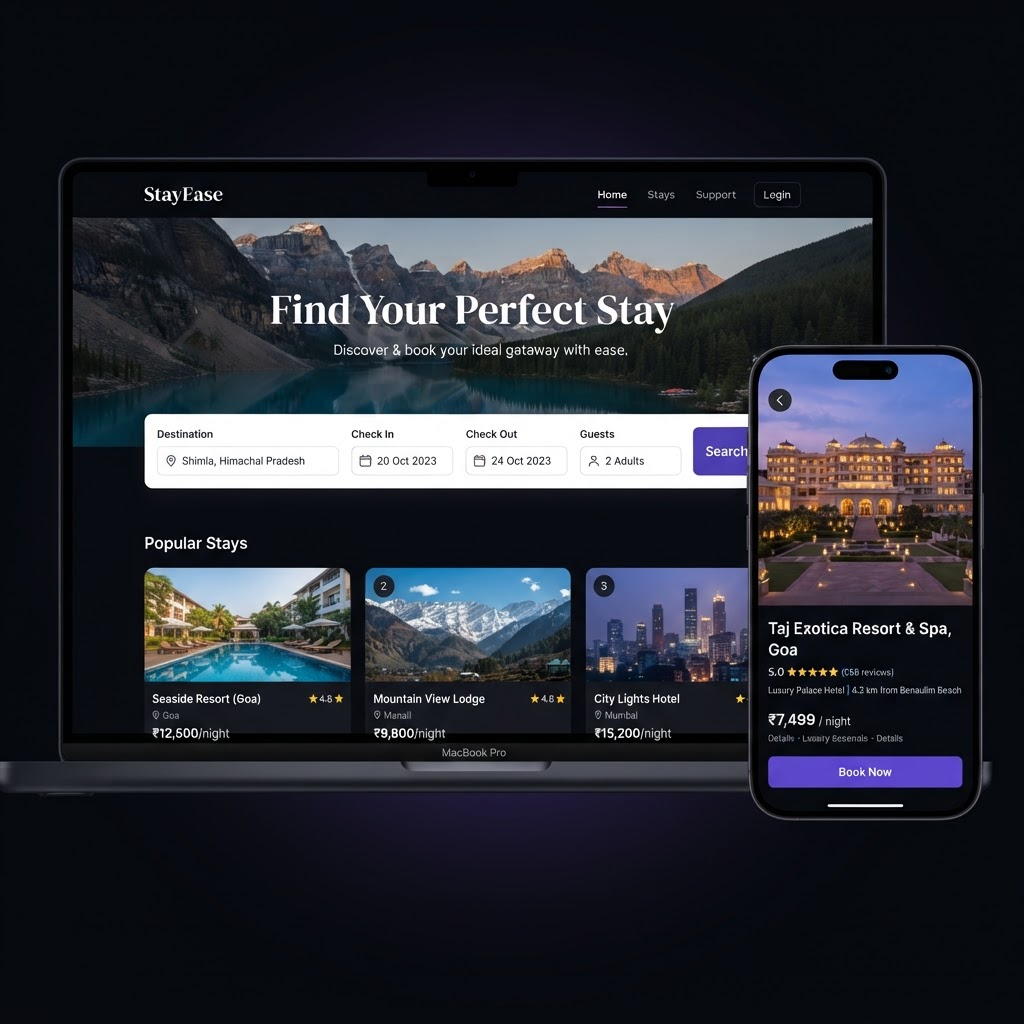
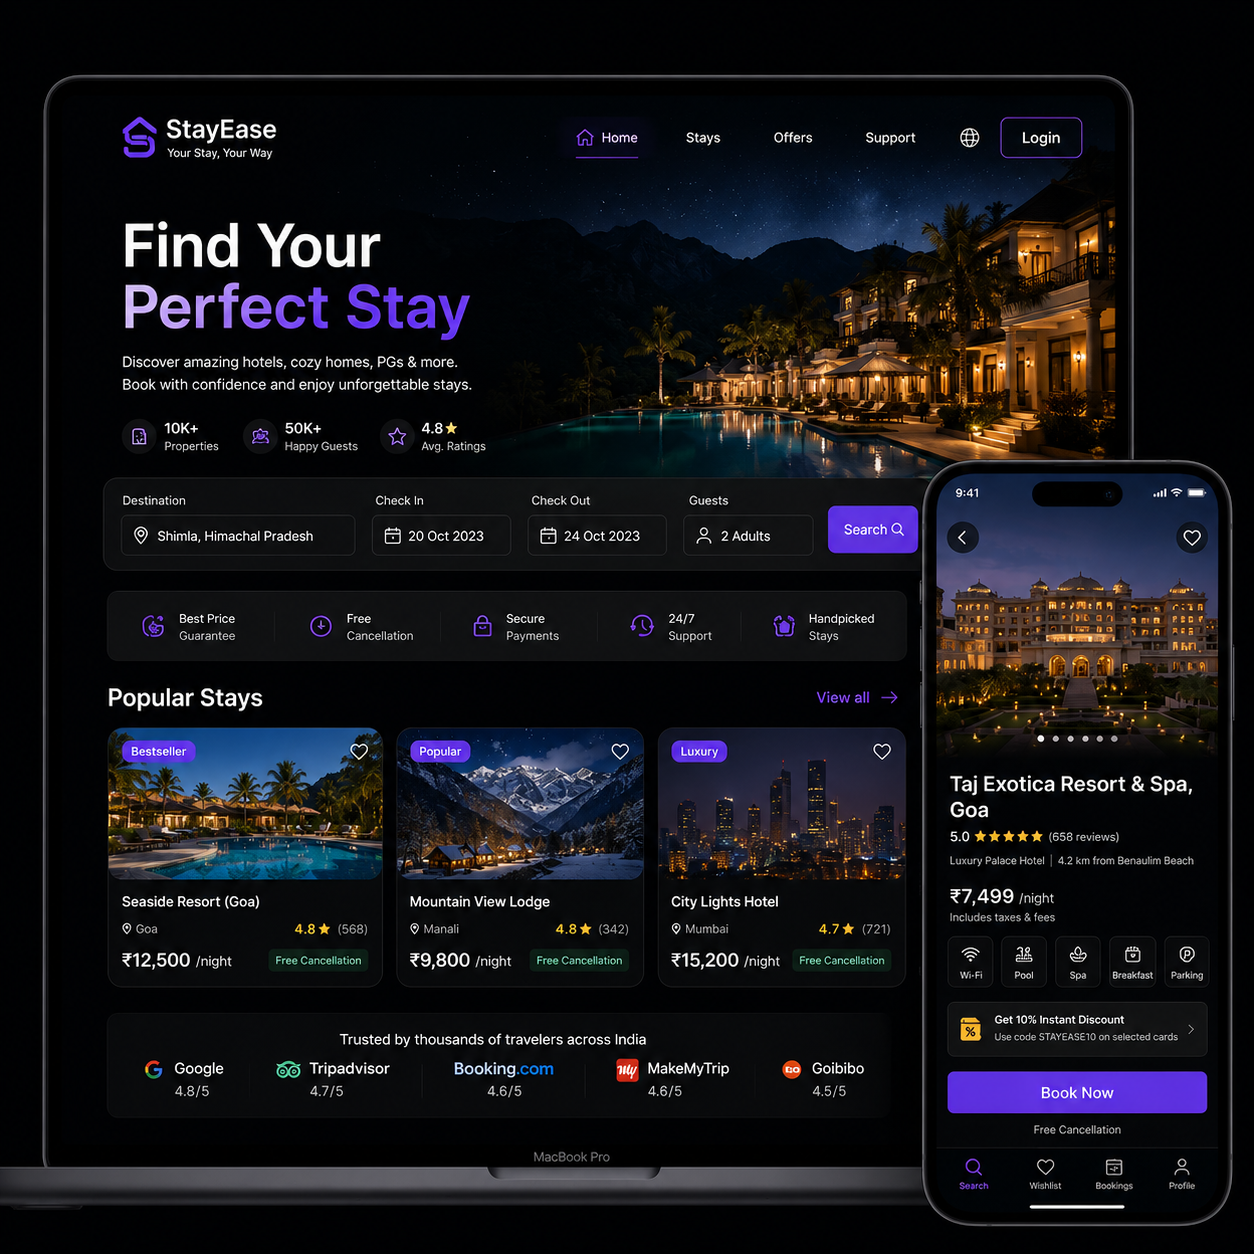
feat: enhance featured projects with richer previews and project context

diff --git a/components/sections/projects-section.tsx b/components/sections/projects-section.tsx
@@ -12,7 +12,7 @@ export function ProjectsSection() {
   return (
     <section
       id="projects"
-      className="scroll-section mx-auto flex max-w-[1480px] flex-col gap-5 px-4 pt-16 sm:px-6 lg:px-8 lg:pt-20"
+      className="scroll-section scroll-mt-20 mx-auto flex max-w-[1480px] flex-col gap-5 px-4 pt-16 sm:px-6 lg:px-8 lg:pt-20"
     >
       <div className="flex flex-col gap-6 md:flex-row md:items-start md:justify-between">
         <div className="flex flex-col gap-3">
@@ -31,22 +31,44 @@ export function ProjectsSection() {
         {projects.slice(0, 2).map((project, index) => (
           <article
             key={project.slug}
-            className="grid grid-cols-1 gap-8 lg:grid-cols-[0.45fr_0.55fr] lg:items-center"
+            className="grid grid-cols-1 gap-10 lg:grid-cols-[0.48fr_0.52fr] lg:items-center"
           >
-            <div className="flex flex-col gap-5">
+            <div className="flex flex-col gap-6">
               <div className="flex flex-wrap items-center gap-3">
                 <span className="text-primary/60 font-mono text-xs tabular-nums">
                   0{index + 1}
                 </span>
-                <h3 className="text-2xl font-bold tracking-tight">
+                <h3 className="text-[28px] font-bold tracking-tight sm:text-[30px] lg:text-[32px]">
                   {project.name}
                 </h3>
                 <StatusBadge label={project.status} />
               </div>
-              <p className="font-medium">{project.subtitle}</p>
-              <p className="text-muted-foreground leading-relaxed text-pretty">
+              <p className="text-[20px] leading-tight font-semibold sm:text-[22px] lg:text-[24px]">
+                {project.tagline}
+              </p>
+              <p className="text-muted-foreground text-[17px] leading-[1.75] text-pretty lg:text-[18px]">
                 {project.cardDescription}
               </p>
+
+              {/* Build Focus Block */}
+              <div className="flex flex-col gap-2">
+                <p className="text-primary/80 text-[12px] font-semibold tracking-[0.15em] uppercase">
+                  Build Focus
+                </p>
+                <p className="text-muted-foreground text-[15px] leading-[1.7] text-pretty lg:text-[16px]">
+                  {project.buildFocus || 'Building responsive interfaces, application state, and data-backed workflows with focus on maintainability and user experience.'}
+                </p>
+              </div>
+
+              {/* Curiosity Hook */}
+              {project.curiosityHook && (
+                <div className="border-l-2 border-primary/30 pl-4">
+                  <p className="text-muted-foreground text-[15px] leading-relaxed text-pretty italic lg:text-[16px]">
+                    {project.curiosityHook}
+                  </p>
+                </div>
+              )}
+
               <div className="flex flex-wrap gap-2">
                 {project.featureChips.map((chip) => (
                   <FeatureChip key={chip} label={chip} />
@@ -57,12 +79,12 @@ export function ProjectsSection() {
                   <TechChip key={chip} label={chip} />
                 ))}
               </div>
-              <div className="flex flex-wrap gap-3 pt-1">
+              <div className="flex flex-wrap gap-3 pt-2">
                 <Link
                   href={`/projects/${project.slug}`}
-                  className="bg-primary text-primary-foreground hover:bg-primary/90 group inline-flex items-center gap-2 rounded-lg px-4 py-2.5 text-sm font-semibold transition-colors"
+                  className="bg-primary text-primary-foreground hover:bg-primary/90 group inline-flex items-center gap-2 rounded-lg px-5 py-3 text-[15px] font-semibold transition-colors lg:text-[16px]"
                 >
-                  View Project
+                  Explore {project.name} Case Study
                   <ArrowRight
                     className="size-4 transition-transform group-hover:translate-x-0.5"
                     aria-hidden="true"
@@ -72,12 +94,17 @@ export function ProjectsSection() {
                   href={project.githubUrl}
                   target="_blank"
                   rel="noopener noreferrer"
-                  className="border-border hover:border-primary/40 inline-flex items-center gap-2 rounded-lg border px-4 py-2.5 text-sm font-semibold transition-colors"
+                  className="border-border hover:border-primary/40 inline-flex items-center gap-2 rounded-lg border px-5 py-3 text-[15px] font-semibold transition-colors lg:text-[16px]"
                 >
                   View on GitHub
                   <Code2 className="size-4" aria-hidden="true" />
                 </a>
               </div>
+
+              {/* Subtle helper text */}
+              <p className="text-muted-foreground/60 text-xs leading-relaxed">
+                See the product thinking, interface decisions and engineering approach behind the build.
+              </p>
             </div>
 
             {/* Visual - with edge blending */}

diff --git a/lib/projects-data.ts b/lib/projects-data.ts
@@ -18,6 +18,8 @@ export type Project = {
   tagline: string
   subtitle: string
   cardDescription: string
+  buildFocus?: string
+  curiosityHook?: string
   description: string
   image: string
   imageAlt: string
@@ -49,10 +51,12 @@ export const projects: Project[] = [
     name: 'SplitFin',
     nameAccentIndex: 5,
     status: 'In Development',
-    tagline: 'Track. Split. Settle. All in one place.',
+    tagline: 'One place to understand money, shared expenses and what happens next.',
     subtitle: 'Smart finance tracking & expense splitting',
     cardDescription:
-      'SplitFin helps you track income and expenses, split bills with friends or groups, scan bills, and settle up easily. All in one place.',
+      'SplitFin is a finance product I\'m building to bring personal spending and shared expenses into one connected experience. Instead of treating transactions, categories, bill splits and settlements as isolated tools, the product is designed around the way money actually moves between people, accounts and everyday decisions.',
+    buildFocus: 'The interesting challenge is not a single dashboard — it is keeping transaction data, category views, account state and shared-expense workflows consistent as the product grows. I\'m shaping the experience around reusable feature modules, predictable data flows and responsive interfaces that stay clear across desktop and mobile.',
+    curiosityHook: 'Currently exploring smarter bill capture, duplicate-aware transaction flows and clearer settlement experiences.',
     description:
       'SplitFin is a personal finance and shared expense management app that helps users track income and expenses, split bills with friends or groups, scan bills, and settle up easily.',
     image: '/images/splitfin-preview.png',
@@ -176,22 +180,24 @@ export const projects: Project[] = [
     name: 'StayEase',
     nameAccentIndex: 4,
     status: 'In Development',
-    tagline: 'Discover. Book. Manage. Travel Smarter.',
+    tagline: 'Designing the journey from "Where should I stay?" to "Booked."',
     subtitle: 'Modern hotel booking experience',
     cardDescription:
-      'StayEase is a hotel booking platform where users can discover stays, compare prices, and book seamlessly with a smooth experience.',
+      'StayEase explores a complete accommodation discovery and booking journey — helping travelers move from broad search to confident selection without losing context along the way. The experience brings property discovery, comparison, stay details and booking decisions into a responsive product flow across desktop and mobile.',
+    buildFocus: 'The core challenge is maintaining a coherent experience while search criteria, filters, property choices and booking state keep changing. I designed the interface around reusable discovery components, responsive content hierarchy and interaction patterns that remain understandable from wide desktop layouts to narrow mobile screens.',
+    curiosityHook: 'A closer look at how search, comparison and booking decisions can feel like one continuous product journey.',
     description:
       'A modern hotel booking platform that combines hotel discovery, AI-assisted search, enriched hotel details from multiple providers, secure booking, and owner property management in one seamless experience.',
     image: '/images/stayease-preview.png',
     imageAlt:
       'StayEase hotel booking site on a laptop with a mobile hotel detail view',
     featureChips: [
-      'Property Search',
-      'Filters & Sorting',
+      'Property Discovery',
+      'Search & Filters',
+      'Stay Comparison',
       'Booking Flow',
-      'Secure Payments',
-      'User Accounts',
       'Responsive UI',
+      'Account Experience',
     ],
     techChips: ['Next.js', 'TypeScript', 'Tailwind CSS', 'Prisma', 'PostgreSQL'],
     liveUrl: '#',